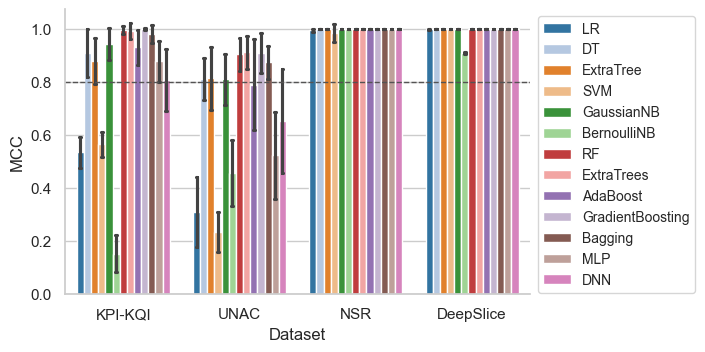
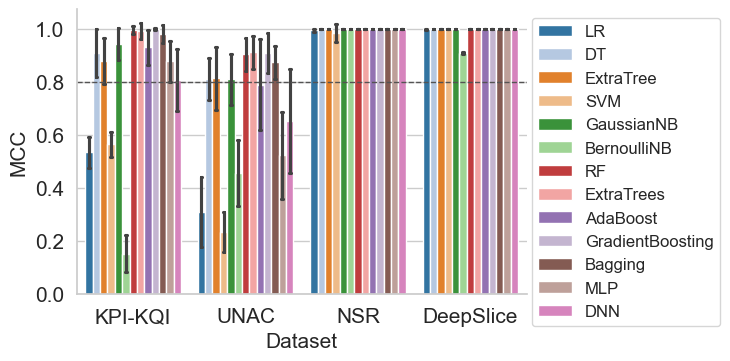
mcc plot font size increased

diff --git a/src/results_analyzer.py b/src/results_analyzer.py
@@ -56,27 +56,35 @@ def plot_mcc_and_create_dataframe_with_the_correlations():
     sns.set_theme(style="whitegrid")
     # note: sample size and seed are the errors
 
-    plt.figure(figsize=(6, 3.7))
+    plt.figure(figsize=(5.8, 3.7))
     # setting font size
     # plt.rcParams.update({'font.size': 16})
     ax = sns.barplot(x='Dataset', y='MCC', data=df, errorbar='sd', hue='Model',
-                palette='tab20', capsize=0.2)
+                palette='tab20', capsize=0.2, width=0.85)
 
     # add horizontal line 0.8 MCC as a cutoff (dashed)
     plt.axhline(y=0.8, color='#545353', linewidth=1.0, linestyle='--')
 
+    fontsize = 12
 
     # Create a custom legend and center it
-    ax.legend(fontsize=10, loc='upper right', bbox_to_anchor=(1.37, 1))
-    # ax.legend(fontsize=16, loc='upper right', bbox_to_anchor=(1.30, 1))
+    ax.legend(fontsize=fontsize, loc='upper right', bbox_to_anchor=(1.45, 1))
 
     ax.spines['right'].set_visible(False)
     ax.spines['top'].set_visible(False)
 
+    # Set axis labels font size
+    ax.set_xlabel('Dataset', fontsize=fontsize+3)
+    ax.set_ylabel('MCC', fontsize=fontsize+3)
+    # Set tick labels font size
+    ax.tick_params(axis='both', which='major', labelsize=fontsize+3)
+
+
+
     plt.savefig(f'plots/png/1_error_MCC.png', bbox_inches='tight')
     plt.savefig(f'plots/pdf/1_error_MCC.pdf', bbox_inches='tight')
 
-# plot_mcc_and_create_dataframe_with_the_correlations()
+plot_mcc_and_create_dataframe_with_the_correlations()
 
 def load_dataframe_with_the_correlations_and_plot():  # SRCC
     df = pd.read_csv('results/correlation_results.csv')
@@ -178,7 +186,7 @@ def load_dataframe_with_the_correlations_and_plot_data_impact():
         plt.savefig(f'plots/png/3_correlations_{performance}_meta.png', bbox_inches='tight')
         plt.savefig(f'plots/pdf/3_correlations_{performance}_meta.pdf', bbox_inches='tight')
 
-load_dataframe_with_the_correlations_and_plot_data_impact()
+# load_dataframe_with_the_correlations_and_plot_data_impact()
 
 
 
